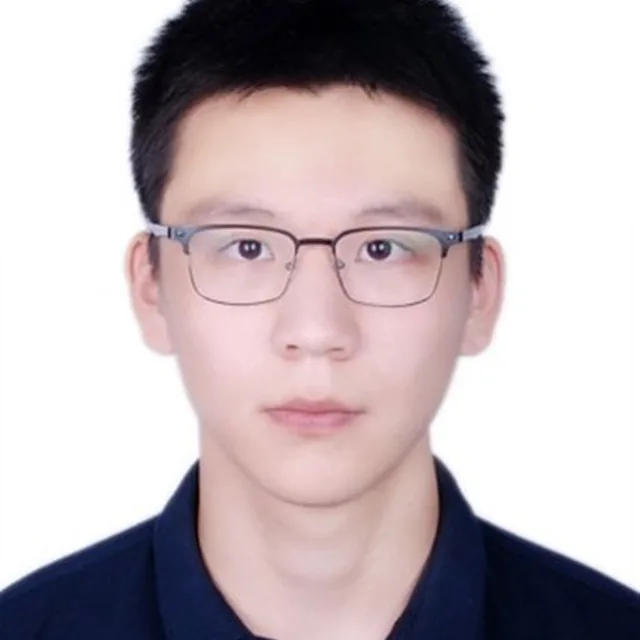
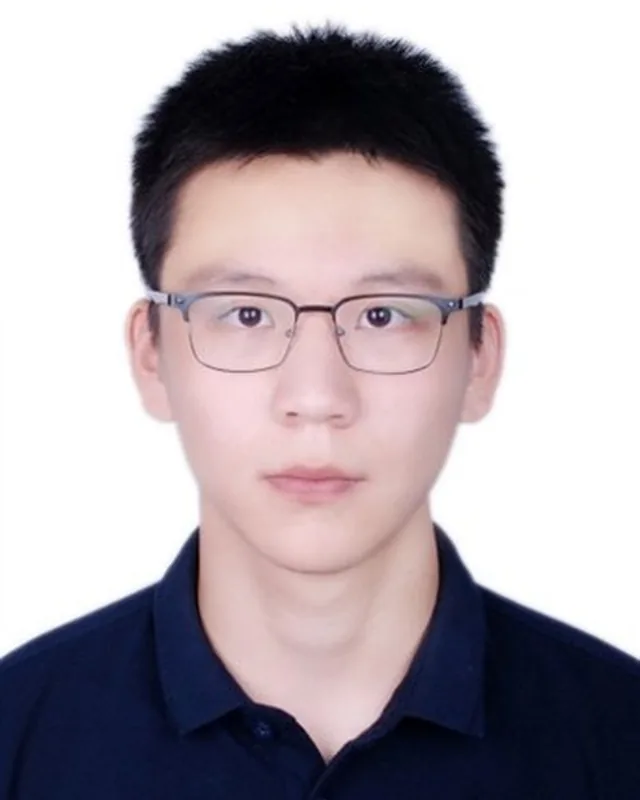
Refine team portraits and student groups

diff --git a/src/styles/global.css b/src/styles/global.css
@@ -954,7 +954,7 @@ h1 span {
 }
 
 .person-image {
-  aspect-ratio: 1 / 1;
+  aspect-ratio: 4 / 5;
   overflow: hidden;
   background: #ddd6cc;
 }
@@ -978,20 +978,6 @@ h1 span {
   place-items: center;
   background: linear-gradient(145deg, #d6cec2, #eee9e1 58%, #c9b9b7);
   color: var(--accent);
-}
-
-.person-image--fallback::before,
-.person-image--fallback::after {
-  content: "";
-  position: absolute;
-  width: 66%;
-  height: 1px;
-  background: color-mix(in srgb, var(--accent) 34%, transparent);
-  transform: rotate(-23deg);
-}
-
-.person-image--fallback::after {
-  transform: rotate(31deg);
 }
 
 .person-image--fallback span {

diff --git a/SITE_REBUILD_PLAN.md b/SITE_REBUILD_PLAN.md
@@ -384,6 +384,19 @@ Validation results for this refinement:
 - Replaced all rendered local JPG references with WebP paths and removed the
   superseded JPG files after validating the converted images.
 
+### 2026-09-06 — Taller portraits and undergraduate group
+
+- Changed Team portrait cards from square to a taller 4:5 ratio and regenerated
+  the available source portraits at 640×800, preserving substantially more of
+  each vertical composition.
+- Converted the newly supplied Cheng Yu and Wei Li JPG portraits to compressed
+  WebP assets and connected them to their cards.
+- Moved Bingrui Gong, Ziyi Liu, and Xuxuan He into a separate Undergraduate
+  Students section after the VCL Physics Group.
+- Simplified portrait fallbacks to initials on a quiet gradient and removed the
+  crossing decorative lines.
+- Extended Team verification to enforce the new four-section hierarchy.
+
 ## 12. Social-preview generation record
 
 The project-bound output is `public/og.png`. It was generated with the built-in ImageGen tool at 1200×630 pixels and visually checked for exact text.
